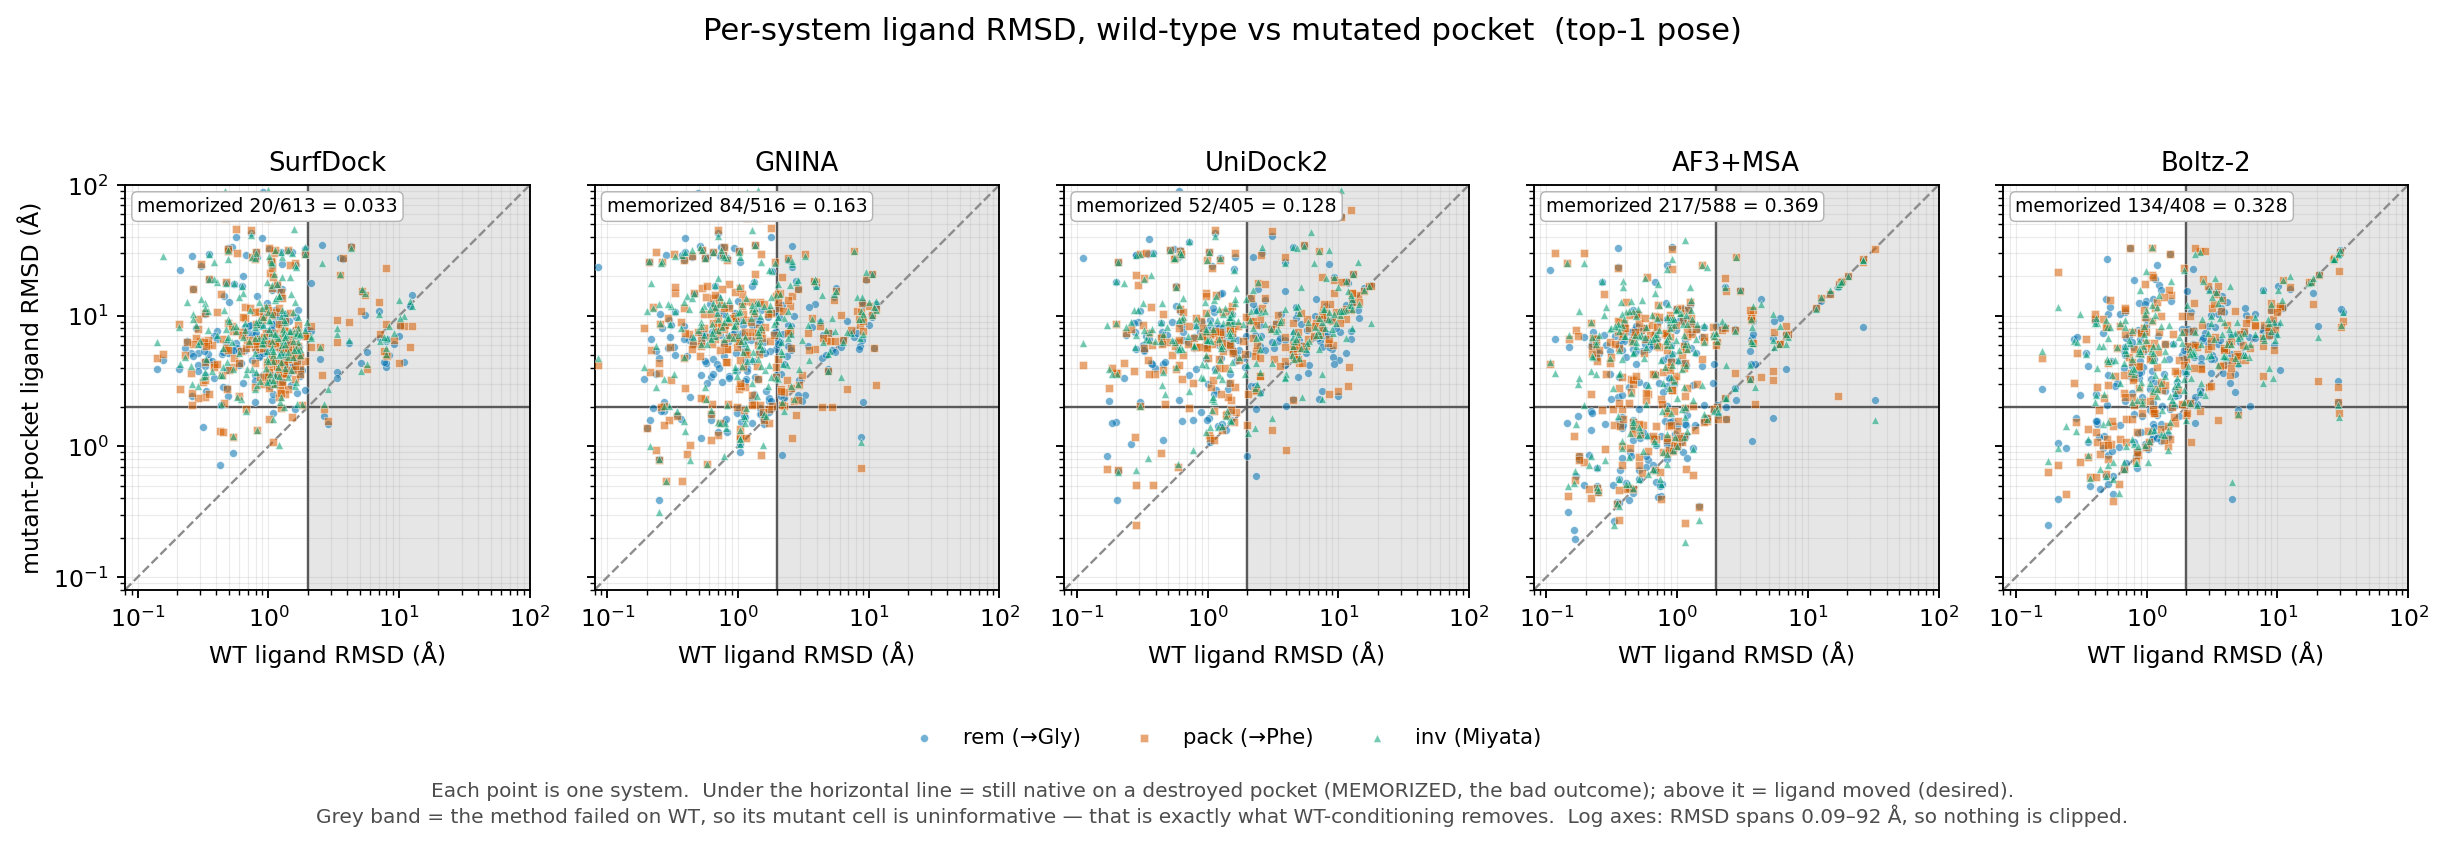
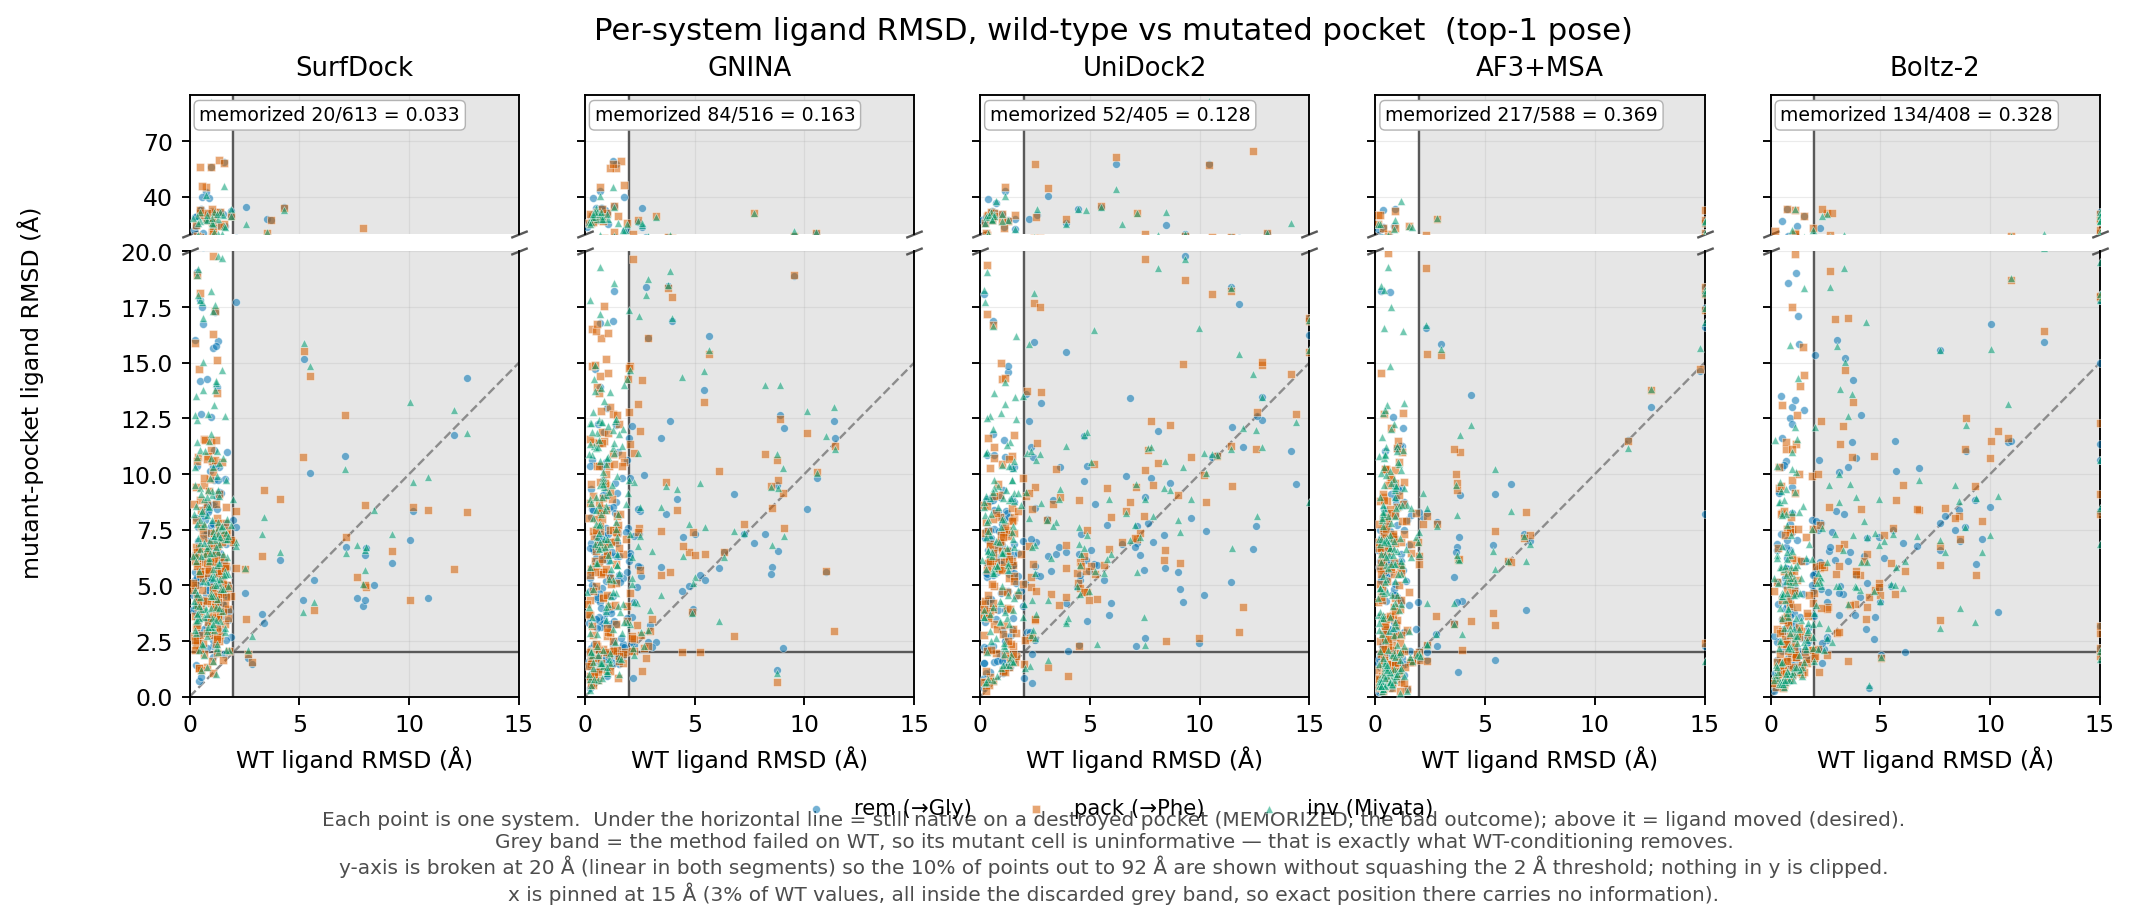
fix(figures): linear broken y-axis instead of log on the paired-RMSD plot
Log solved the clipping problem but introduced its own: it compresses the high
end, and readers think about RMSD linearly -- 3 A vs 30 A should not look like
a small step when one is a good pose and the other is a fully ejected ligand.

Linear needs a broken axis to work here, because the two requirements conflict:
adversarial RMSD reaches 91.6 A, but 90% of it is under 20 A and the metric is
a threshold at 2 A. A single linear 0-92 axis puts the whole decision region in
the bottom 4% of the height.

So: a tall linear 0-20 panel carrying the 2 A line, the y=x diagonal and 90% of
the data, plus a short compressed linear 20-95 panel above it for the remaining
10%, with break marks on the facing spines. Both segments linear, nothing
clipped in y.

x stays pinned at 15 A (3% of WT values). Unlike the old y-clip this is
defensible and now stated on the figure: every pinned point lies inside the
discarded grey band, where exact position carries no information by
construction.

Memorized counts unchanged again (20/613, 84/516, 52/405, 217/588, 134/408) --
all three axis treatments were display-only.

Claude-Session: https://claude.ai/code/session_01Cw86bpqRJrqgTT2THA8t5M

diff --git a/analysis/casf_mutagenesis/scripts/29_plot_paired_rmsd.py b/analysis/casf_mutagenesis/scripts/29_plot_paired_rmsd.py
@@ -51,15 +51,20 @@ VARIANT_LABEL = {"rem": "rem (→Gly)", "pack": "pack (→Phe)", "inv": "inv (Mi
 VARIANT_COLOR = {"rem": "#0072B2", "pack": "#D55E00", "inv": "#009E73"}
 VARIANT_MARKER = {"rem": "o", "pack": "s", "inv": "^"}   # secondary encoding
 THR = 2.0
-# LOG axes, no clipping. RMSD here spans 0.085-91.6 A -- about 3 decades -- so:
-#   * a linear 0-92 axis squashes the whole decision region (0-4 A) into the
-#     bottom 4% of the plot, hiding the 2 A threshold that defines the metric;
-#   * clipping at 14 A (an earlier version of this figure) silently discarded
-#     16.2% of points -- 19% for the docking engines -- and piled them into a
-#     false band on the top edge.
-# Log keeps the 2 A lines legible AND shows every point at its true value; the
-# y=x diagonal is still a straight line. There are no zero RMSDs (min 0.085).
-LO, HI = 0.08, 100.0
+# LINEAR axes with a BROKEN y. Constraints that force this shape:
+#   * adversarial RMSD reaches 91.6 A but is 90% under 20 A, so one linear
+#     0-92 axis squashes the decision region (0-4 A) into ~4% of the height
+#     and hides the 2 A threshold that defines the metric;
+#   * clipping at 14 A (the first version of this figure) silently dropped
+#     16.2% of points and piled them into a false band on the top edge;
+#   * a log axis fixes both but compresses the high end, and readers think
+#     about RMSD linearly -- 3 vs 30 A should not look like a small step.
+# So: a tall linear 0-20 panel carrying the 2 A line and 90% of the data, and
+# a short compressed linear 20-95 panel above it for the remaining 10%. Both
+# segments are linear, nothing is clipped in y.
+Y_SPLIT = 20.0        # break point
+Y_TOP = 95.0          # above the 91.6 A max
+X_MAX = 15.0          # covers 97% of WT; the rest sits in the discarded band
 
 
 def load_pairs() -> dict[str, dict[str, list[tuple[float, float]]]]:
@@ -105,37 +110,54 @@ def load_pairs() -> dict[str, dict[str, list[tuple[float, float]]]]:
     return out
 
 
-def panel(ax, method: str, data: dict[str, list[tuple[float, float]]]) -> None:
-    # Shade the region conditioning discards: the method failed on WT there.
-    ax.axvspan(THR, HI, color="0.90", zorder=0)
-    ax.plot([LO, HI], [LO, HI], ls="--", lw=1.0, color="0.55", zorder=1)
-    ax.axhline(THR, lw=1.0, color="0.35", zorder=1)
-    ax.axvline(THR, lw=1.0, color="0.35", zorder=1)
+def panel(ax_hi, ax_lo, method: str, data: dict[str, list[tuple[float, float]]]) -> None:
+    """Draw one method across a broken y-axis: ax_lo = 0-20 A, ax_hi = 20-95 A."""
+    for ax in (ax_hi, ax_lo):
+        # Shade the region conditioning discards: the method failed on WT there.
+        ax.axvspan(THR, X_MAX, color="0.90", zorder=0)
+        ax.set_xlim(0, X_MAX)
+        ax.grid(alpha=0.25, lw=0.5)
+        ax.set_axisbelow(True)
+    # Thresholds and the "mutation changed nothing" diagonal live in the lower
+    # panel; above 20 A both are off-scale or meaningless.
+    ax_lo.plot([0, Y_SPLIT], [0, Y_SPLIT], ls="--", lw=1.0, color="0.55", zorder=1)
+    ax_lo.axhline(THR, lw=1.0, color="0.35", zorder=1)
+    ax_lo.axvline(THR, lw=1.0, color="0.35", zorder=1)
+    ax_hi.axvline(THR, lw=1.0, color="0.35", zorder=1)
+    ax_lo.set_ylim(0, Y_SPLIT)
+    ax_hi.set_ylim(Y_SPLIT, Y_TOP)
+    ax_hi.set_yticks([40, 70])
 
     n_wt_ok = n_mem = 0
     for v in VARIANTS:
         pts = data.get(v, [])
         if not pts:
             continue
-        x = np.clip([p[0] for p in pts], LO, HI)
-        y = np.clip([p[1] for p in pts], LO, HI)
-        ax.scatter(x, y, s=11, c=VARIANT_COLOR[v], marker=VARIANT_MARKER[v],
-                   alpha=0.55, linewidths=0.3, edgecolors="white",
-                   label=VARIANT_LABEL[v], zorder=3)
+        # x beyond X_MAX is pinned to the edge -- those points are all inside the
+        # discarded (grey) band, where exact position carries no information.
+        x = np.clip([p[0] for p in pts], 0, X_MAX)
+        y = np.array([p[1] for p in pts])
+        for ax in (ax_hi, ax_lo):
+            ax.scatter(x, y, s=11, c=VARIANT_COLOR[v], marker=VARIANT_MARKER[v],
+                       alpha=0.55, linewidths=0.3, edgecolors="white",
+                       label=VARIANT_LABEL[v], zorder=3)
         n_wt_ok += sum(1 for a, _ in pts if a < THR)
         n_mem += sum(1 for a, b in pts if a < THR and b < THR)
 
+    # Break marks on the facing spines.
+    ax_hi.spines["bottom"].set_visible(False)
+    ax_lo.spines["top"].set_visible(False)
+    ax_hi.tick_params(bottom=False, labelbottom=False)
+    kw = dict(marker=[(-1, -0.4), (1, 0.4)], markersize=7, linestyle="none",
+              color="0.35", mec="0.35", mew=1, clip_on=False)
+    ax_hi.plot([0, 1], [0, 0], transform=ax_hi.transAxes, **kw)
+    ax_lo.plot([0, 1], [1, 1], transform=ax_lo.transAxes, **kw)
+
     rate = n_mem / n_wt_ok if n_wt_ok else float("nan")
-    ax.text(0.03, 0.97,
-            f"memorized {n_mem}/{n_wt_ok} = {rate:.3f}",
-            transform=ax.transAxes, va="top", ha="left", fontsize=8,
-            bbox=dict(boxstyle="round,pad=0.28", fc="white", ec="0.7", lw=0.6))
-    ax.set_title(method, fontsize=11)
-    ax.set_xscale("log"); ax.set_yscale("log")
-    ax.set_xlim(LO, HI); ax.set_ylim(LO, HI)
-    ax.set_aspect("equal", adjustable="box")   # equal decades: the diagonal is 45 deg
-    ax.grid(alpha=0.25, lw=0.5, which="both")
-    ax.set_axisbelow(True)
+    ax_hi.text(0.03, 0.92, f"memorized {n_mem}/{n_wt_ok} = {rate:.3f}",
+               transform=ax_hi.transAxes, va="top", ha="left", fontsize=8,
+               bbox=dict(boxstyle="round,pad=0.28", fc="white", ec="0.7", lw=0.6))
+    ax_hi.set_title(method, fontsize=11, pad=8)
 
 
 def main() -> int:
@@ -149,15 +171,19 @@ def main() -> int:
         return 1
 
     ncol = len(order)
-    fig, axes = plt.subplots(1, ncol, figsize=(2.9 * ncol, 4.2), squeeze=False,
-                             sharey=True)
-    for ax, m in zip(axes[0], order):
-        panel(ax, pretty.get(m, m), data[m])
-    axes[0][0].set_ylabel("mutant-pocket ligand RMSD (Å)")
-    for ax in axes[0]:
+    fig, axes = plt.subplots(2, ncol, figsize=(2.9 * ncol, 4.6), squeeze=False,
+                             sharex="col", gridspec_kw=dict(height_ratios=[1, 3.2],
+                                                            hspace=0.06))
+    for i, m in enumerate(order):
+        panel(axes[0][i], axes[1][i], pretty.get(m, m), data[m])
+    for i in range(1, ncol):
+        axes[0][i].tick_params(labelleft=False)
+        axes[1][i].tick_params(labelleft=False)
+    fig.supylabel("mutant-pocket ligand RMSD (Å)", fontsize=10, x=0.055)
+    for ax in axes[1]:
         ax.set_xlabel("WT ligand RMSD (Å)")
 
-    h, l = axes[0][0].get_legend_handles_labels()
+    h, l = axes[1][0].get_legend_handles_labels()
     fig.suptitle("Per-system ligand RMSD, wild-type vs mutated pocket  (top-1 pose)",
                  fontsize=13)
     fig.tight_layout()
@@ -169,8 +195,12 @@ def main() -> int:
              "Each point is one system.  Under the horizontal line = still native on a "
              "destroyed pocket (MEMORIZED, the bad outcome); above it = ligand moved "
              "(desired).\nGrey band = the method failed on WT, so its mutant cell is "
-             "uninformative — that is exactly what WT-conditioning removes.  "
-             "Log axes: RMSD spans 0.09–92 Å, so nothing is clipped.",
+             "uninformative — that is exactly what WT-conditioning removes.\n"
+             "y-axis is broken at 20 Å (linear in both segments) so the 10% of "
+             "points out to 92 Å are shown without squashing the 2 Å threshold; "
+             "nothing in y is clipped.\nx is pinned at 15 Å (3% of WT values, all "
+             "inside the discarded grey band, so exact position there carries no "
+             "information).",
              ha="center", va="bottom", fontsize=8.5, color="0.3")
     out = FIG_DIR / "paired_rmsd_wt_vs_mutant.png"
     fig.savefig(out, dpi=170, bbox_inches="tight")
